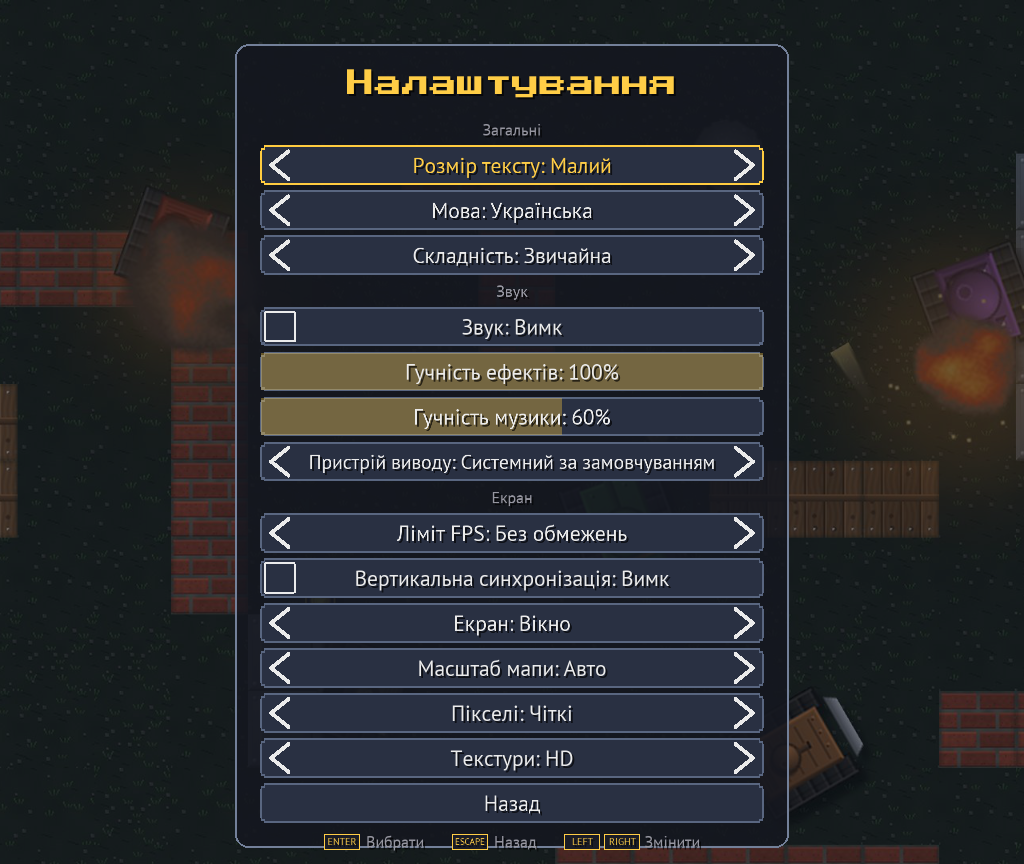
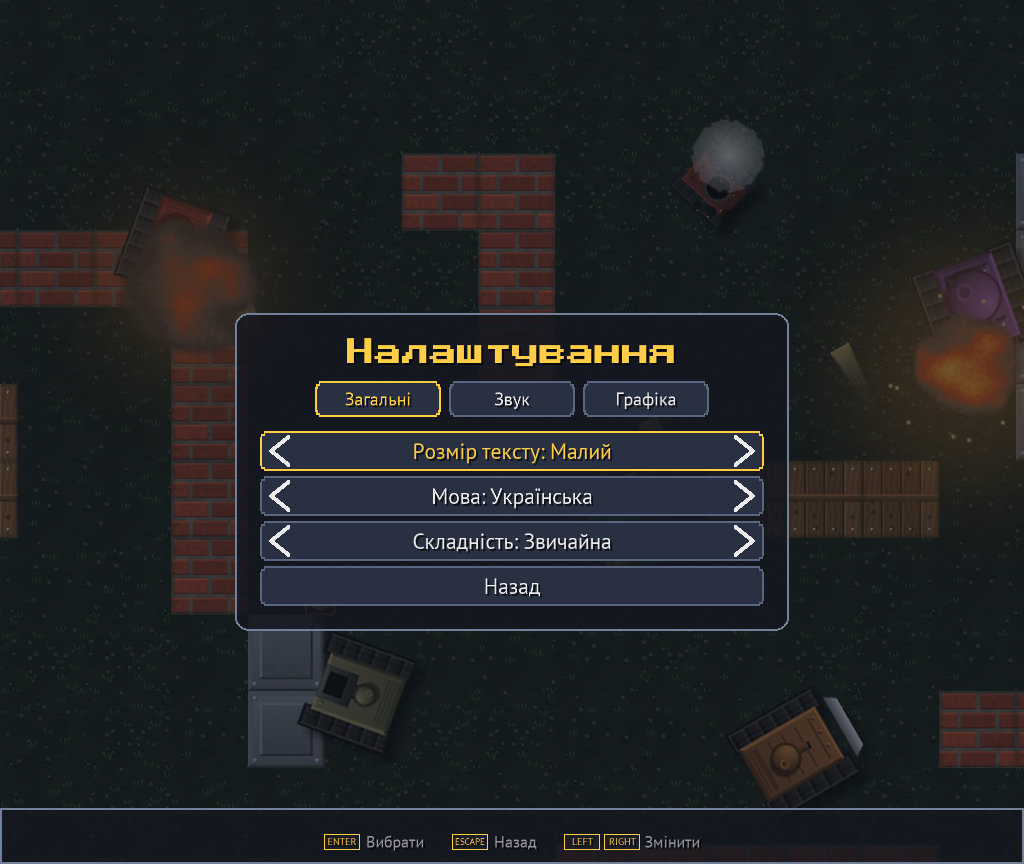
Settings: tabs (General, Audio, Graphics) with Q/E switching, hints panel at the bottom

diff --git a/TanksClone/Classes/ui/SettingsPanel.cpp b/TanksClone/Classes/ui/SettingsPanel.cpp
@@ -18,6 +18,7 @@
 #include "services/DisplaySettings.h"
 #include "services/ProfileManager.h"
 #include "services/StringsManager.h"
+#include "ui/ActionListener.h"
 #include "ui/LayoutWidget.h"
 #include "ui/MenuBuilder.h"
 #include "ui/WidgetFactory.h"
@@ -29,7 +30,10 @@ namespace game::view::cocos
 
 namespace
 {
-	constexpr float SectionFontSize = 18.0f;
+	constexpr float TabFontSize = 20.0f;
+	constexpr float TabWidth = 140.0f;
+	constexpr float TabHeight = 40.0f;
+	std::string GCurrentTab;
 
 	const viewmodel::SettingsLayout& Style()
 	{
@@ -123,10 +127,38 @@ bool SettingsPanel::init(const Place InPlace, const TFunction<void(), UiCallback
 	addChild(List);
 
 	Bindings = MakeBindings(InOnBack, InOnReopen);
-	for ( const MenuEntry& Current : ResolveMenuEntries(*Menu, Bindings, false) )
+	TArray<std::string> Tabs;
+	for ( const viewmodel::MenuItemDef& Item : Menu->Items )
 	{
-		AddEntry(Current);
+		if ( !Item.Section.empty() && std::find(Tabs.begin(), Tabs.end(), Item.Section) == Tabs.end() )
+		{
+			Tabs.PushBack(Item.Section);
+		}
 	}
+	if ( std::find(Tabs.begin(), Tabs.end(), GCurrentTab) == Tabs.end() )
+	{
+		GCurrentTab = Tabs.IsEmpty() ? std::string() : Tabs.Front();
+	}
+	TabIds = Tabs;
+	OnReopen = InOnReopen;
+	MenuDefinition = Menu;
+	if ( TabIds.Size() > 1 )
+	{
+		AddActionHandler(this, [this](const model::InputAction InAction)
+		{
+			const auto Found = std::find(TabIds.begin(), TabIds.end(), GCurrentTab);
+			const int Index = static_cast<int>(Found - TabIds.begin());
+			if ( InAction == model::InputAction::NextTab )
+			{
+				ShowTab(Index + 1);
+			}
+			else if ( InAction == model::InputAction::PrevTab )
+			{
+				ShowTab(Index - 1);
+			}
+		});
+	}
+	BuildContent();
 	Layout();
 	return true;
 }
@@ -258,6 +290,41 @@ void SettingsPanel::ShowFill(widgets::Button& InOutButton, const viewmodel::Menu
 	InOutButton.SetFillFraction((static_cast<float>(Number->Get()) - InItem.Min) / (InItem.Max - InItem.Min));
 }
 
+void SettingsPanel::BuildContent()
+{
+	LayoutWidget* const Row = Panel->FindWidget("tabs");
+	for ( size_t Index = 0; Index < TabIds.Size(); ++Index )
+	{
+		auto* const NewTab = widgets::Button::create(Text(TabIds[Index].c_str()), widgets::ScaleUi(cocos2d::Size(TabWidth, TabHeight)), [this, Index]()
+		{
+			ShowTab(static_cast<int>(Index));
+		});
+		NewTab->SetFontSize(TabFontSize);
+		NewTab->SetSelected(TabIds[Index] == GCurrentTab);
+		Row->AppendNode(NewTab);
+	}
+	for ( const MenuEntry& Current : ResolveMenuEntries(*MenuDefinition, Bindings, false) )
+	{
+		if ( Current.Item->Section.empty() || Current.Item->Section == GCurrentTab )
+		{
+			AddEntry(Current);
+		}
+	}
+}
+
+void SettingsPanel::ShowTab(const int InIndex)
+{
+	const int Count = static_cast<int>(TabIds.Size());
+	GCurrentTab = TabIds[static_cast<size_t>((InIndex + Count) % Count)];
+	Panel->FindWidget("tabs")->RemoveAppendedNodes();
+	Panel->FindWidget("buttons")->RemoveAppendedNodes();
+	List->Clear();
+	Entries.Clear();
+	TextureButton = nullptr;
+	BuildContent();
+	Layout();
+}
+
 void SettingsPanel::AddEntry(const MenuEntry& InEntry)
 {
 	auto NewButton = widgets::Button::create(InEntry.Caption, widgets::ScaleUi(cocos2d::Size(Buttons().Width, Buttons().Height)), InEntry.Action);
@@ -272,11 +339,6 @@ void SettingsPanel::AddEntry(const MenuEntry& InEntry)
 		NewButton->SetSlide(InEntry.Slide);
 	}
 	ShowFill(*NewButton, *InEntry.Item);
-	if ( !InEntry.Item->Section.empty() )
-	{
-		auto* const Heading = widgets::CreateLabel(Text(InEntry.Item->Section.c_str()), SectionFontSize, widgets::colors::TextDim());
-		Panel->FindWidget("buttons")->AppendNode(Heading);
-	}
 	Panel->FindWidget("buttons")->AppendNode(NewButton);
 	List->AddButton(NewButton);
 	Entries.PushBack({ NewButton, *InEntry.Item });

diff --git a/TanksClone/Classes/tests/MenuTests.cpp b/TanksClone/Classes/tests/MenuTests.cpp
@@ -149,10 +149,33 @@ namespace
 		return nullptr;
 	}
 
+	// Finds a button; a setting on another tab is looked for by opening the tabs one by one.
+	auto FindSettingOrButton(const std::string& InId)
+	{
+		auto Found = FindButton(Text(InId));
+		if ( Found || InId.rfind("SETTINGS_", 0) != 0 )
+		{
+			return Found;
+		}
+		for ( const char* const Tab : { "SETTINGS_SECTION_GENERAL", "SETTINGS_SECTION_AUDIO", "SETTINGS_SECTION_DISPLAY" } )
+		{
+			if ( auto TabButton = FindButton(Text(Tab)) )
+			{
+				TabButton->Activate();
+				Found = FindButton(Text(InId));
+			}
+			if ( Found )
+			{
+				break;
+			}
+		}
+		return Found;
+	}
+
 	// Presses the button whose caption starts with the string InId; a missing button is a failure.
 	void Press(TestContext& InContext, const std::string& InId)
 	{
-		auto CurrentButton = FindButton(Text(InId));
+		auto CurrentButton = FindSettingOrButton(InId);
 		auto* const Clickable = CurrentButton ? nullptr : FindClickable(cocos2d::Director::getInstance()->getRunningScene(), Text(InId));
 		InContext.Expect(CurrentButton != nullptr || Clickable != nullptr, "button '" + Text(InId) + "' is on the screen");
 		if ( CurrentButton )
@@ -568,7 +591,7 @@ namespace
 
 	float ButtonHeightOf(const std::string& InId)
 	{
-		auto CurrentButton = FindButton(Text(InId));
+		auto CurrentButton = FindSettingOrButton(InId);
 		return CurrentButton ? CurrentButton->getContentSize().height : 0.0f;
 	}
 
@@ -1194,7 +1217,7 @@ namespace
 				Press(InContext, "SETTINGS_EFFECTS_VOLUME");
 			}
 			const bool bHdBefore = Profile().bHdTextures;
-			auto Textures = FindButton(Text("SETTINGS_TEXTURES"));
+			auto Textures = FindSettingOrButton("SETTINGS_TEXTURES");
 			InContext.Expect(Textures && !Textures->IsEnabled(), "the texture quality button is disabled");
 			Press(InContext, "SETTINGS_TEXTURES");
 			InContext.Expect(Profile().bHdTextures == bHdBefore, "and pressing it changes nothing");

diff --git a/TanksClone/Classes/ui/SettingsPanel.h b/TanksClone/Classes/ui/SettingsPanel.h
@@ -58,6 +58,8 @@ private:
 	void ShowFill(widgets::Button& InOutButton, const viewmodel::MenuItemDef& InItem) const;
 	MenuBindings MakeBindings(const TFunction<void(), UiCallbackInlineSize>& InOnBack, const TFunction<void(), UiCallbackInlineSize>& InOnReopen);
 	void AddEntry(const MenuEntry& InEntry);
+	void BuildContent();
+	void ShowTab(int InIndex);
 	void Apply(const ProfileChange& InChange, bool bInWindowChange);
 	void Layout();
 
@@ -67,5 +69,8 @@ private:
 	widgets::Button* TextureButton = nullptr;
 	MenuBindings Bindings;
 	TArray<Entry> Entries;
+	TArray<std::string> TabIds;
+	TFunction<void(), UiCallbackInlineSize> OnReopen;
+	const viewmodel::MenuDef* MenuDefinition = nullptr;
 };
 } // namespace game::view::cocos

diff --git a/TanksClone/Classes/model/InputBindings.cpp b/TanksClone/Classes/model/InputBindings.cpp
@@ -67,6 +67,7 @@ std::string GetActionName(const InputAction InAction)
 		case InputAction::SwitchWeapon: return "switch_weapon";
 		case InputAction::Pause: return "pause";
 		case InputAction::NextTab: return "next_tab";
+		case InputAction::PrevTab: return "prev_tab";
 		case InputAction::Back: return "back";
 		case InputAction::ToggleStats: return "toggle_stats";
 		case InputAction::ToggleAiDebug: return "toggle_ai_debug";

diff --git a/TanksClone/Classes/model/InputBindings.h b/TanksClone/Classes/model/InputBindings.h
@@ -48,6 +48,7 @@ enum class InputAction
 	SelectItem8,
 	SelectItem9,
 	NextTab,
+	PrevTab,
 	Back,
 	ToggleStats,
 	ToggleAiDebug,
